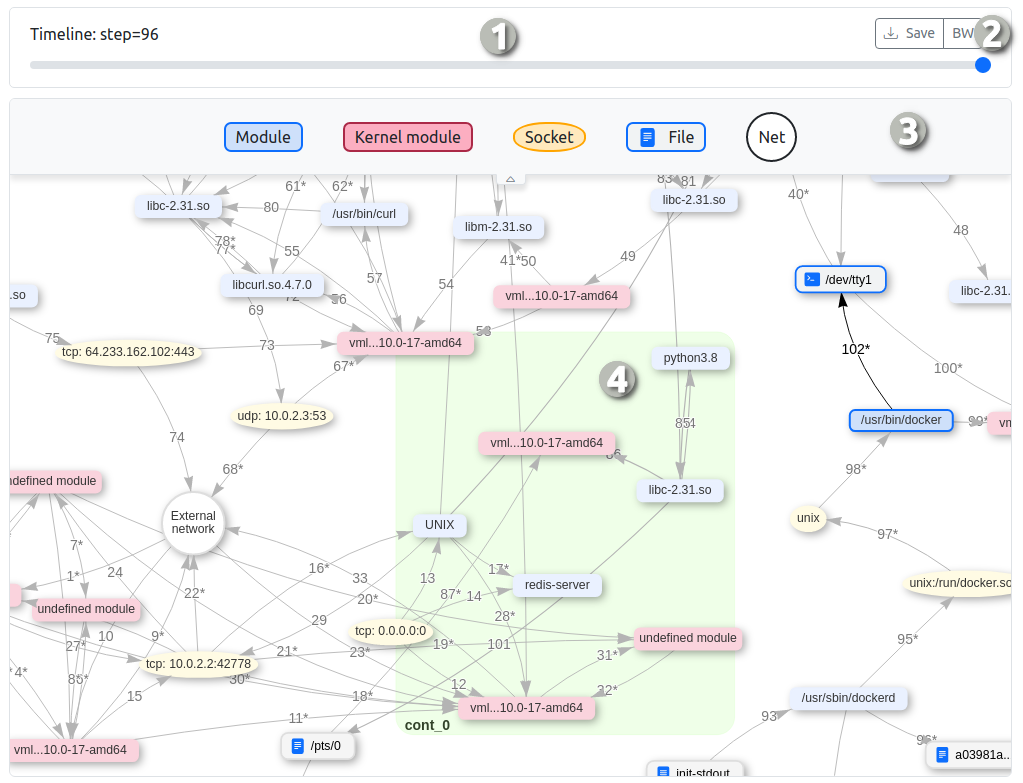
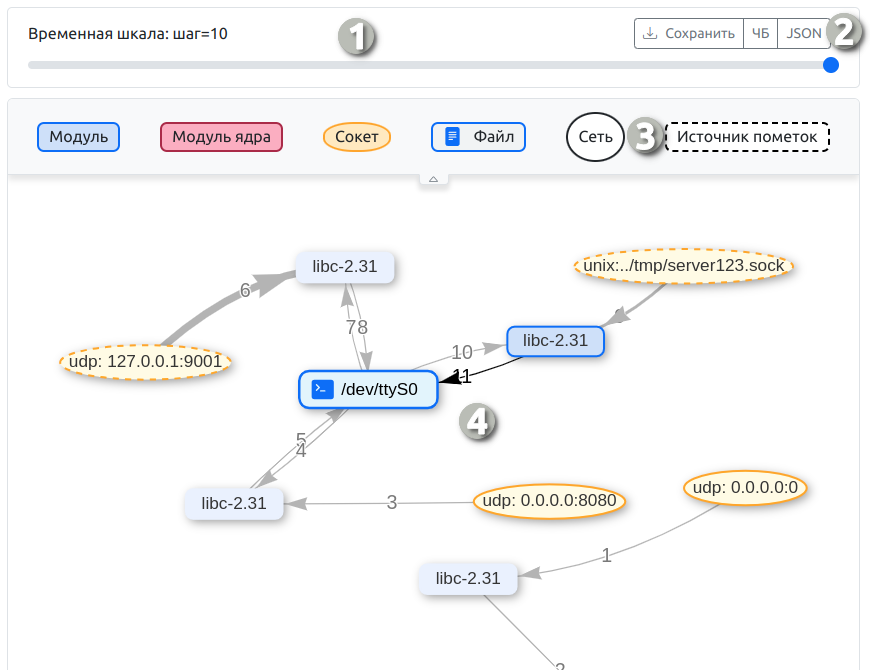
Update 6_snatch.md: updated process_&module_graph part

diff --git a/6_snatch.md b/6_snatch.md
@@ -114,27 +114,30 @@
 ### <a name="process_graph"></a>6.3.3. Граф процессов
 
 Граф процессов открывается автоматически после создания проекта, при наличии в проекте помеченных данных (в противном случае будет выведено информационное сообщение). Его также можно открыть через меню проекта.
-В меню графа процессов есть два пункта: *Process-graph* и *Process-graph content* (json представление графа). После выбора одного из этих пунктов открывается новая вкладка с соответствующим названием. Для *Process-graph content* содержимое вкладки будет представлено текстом, а для *Process-graph* откроется вкладка следующего вида:
+
+Для каждого нового проекта, построенного на основании одного и того же архива, первоначальное построение графа процессов и расположение узлов на нем будет одинаковым. При дальнейшем взаимодействии с графом, положение его узлов сохраняется. Таким образом при повторном открытии графа процессов узлы будут расположены так же, как и в прошлый раз, при этом не будет происходить перестроение графа с учетом физической модели.
+
+Отдельно отметим, что на текущем этапе разработки граф процессов может содержать некоторые неточности. При несоответствии данных между графом и другими аналитиками, стоит ориентироваться на последние.
+
+*Граф процессов* выглядит следующим образом:
 
 <img src=https://raw.githubusercontent.com/ispras/natch/main/images/snatch/snatch_process_graph.png><figcaption>_Граф процессов_</figcaption>
 
 В окне графа процессов представлены следующие элементы:
 
 1. Шкала выбора активного шага выполнения. Перемещение по данной шкале соответствующим образом изменяет отображаемый граф.
-2. Кнопки сохранения (экспорта в pdf) текущего состояния графа. По нажатию кнопки "Save" происходит создание цветного изображения графа, по нажатию на "BW" – черно-белого.
+2. Кнопки сохранения (экспорта в pdf) текущего состояния графа. По нажатию кнопки "Сохранить" происходит создание цветного изображения графа, по нажатию на "ЧБ" – черно-белого, "JSON" – сохраняет текстовое представление графа в json-формате.
 3. Выбор режима отображения графа. Граф процессов поддерживает 4 режима отображения:
-   * *Active* – отображаются элементы (узлы и стрелки), которые задействованы на текущем шаге;
-   * *Past* – отображаются элементы, которые задействованы на текущем шаге, а также те, которые произошли в прошлом (узлы и стрелки серого цвета);
-   * *Significant* – отображаются элементы, которые задействованы на текущем шаге, а также те узлы, которые были задействованы в прошлом и при этом еще будут задействованы в будущем, и прошедшие стрелки между ними (узлы и стрелки бледных цветов);
-   * *All* – отображаются элементы, которые задействованы на текущем шаге, а также те узлы (но не стрелки), которые вообще существуют на схеме (узлы бледных цветов).
-4. Легенда графа. Описывает набор отображаемых на графе узлов и их внешний вид. По нажатию на элемент легенда скрывается и может быть повторно вызвана нажатием на оставшийся "язычок".
+   * *Активные* – отображаются элементы (узлы и стрелки), которые задействованы на текущем шаге;
+   * *Прошлые* – отображаются элементы, которые задействованы на текущем шаге, а также те, которые произошли в прошлом (узлы и стрелки серого цвета);
+   * *Значимые* – отображаются элементы, которые задействованы на текущем шаге, а также те узлы, которые были задействованы в прошлом и при этом еще будут задействованы в будущем, и прошедшие стрелки между ними (узлы и стрелки бледных цветов);
+   * *Все* – отображаются элементы, которые задействованы на текущем шаге, а также те узлы (но не стрелки), которые вообще существуют на схеме (узлы бледных цветов).
+4. Легенда графа. Описывает набор отображаемых на графе узлов и их внешний вид. По нажатию на элемент легенда скрывается и может быть повторно вызвана нажатием на оставшийся "язычок". Элемент "источник пометок" описывает не форму, а вид рамки элемента (на данный момент если источником помеченных данных являлась "Сеть", то её вид рамки не изменится, требуется доработка).
 4. Граф процессов. Интерактивный граф, отображающий взаимодействие процессов, работавших с помеченными данными. Расположение узлов на графе можно изменять удобным для пользователя образом. При наличии информации о контейнерах, они будут отображены на графе в виде зеленых блоков, содержащих соответствующие им процессы. При нажатии на узел происходит отображение бокового информационного блока:
 
 <img src=https://raw.githubusercontent.com/ispras/natch/main/images/snatch/snatch_process_infoblock.png><figcaption>_Информационный блок_</figcaption>
 
 В информационном блоке содержатся: название выбранного элемента, его свойства, кнопка открытия соответствующего отфильтрованного графа модулей.
-
-Отдельно обращаем внимание, что положение узлов при взаимодействии с графом сохраняется. При повторном открытии графа процессов узлы будут расположены так же, как и в прошлый раз, при этом не будет происходить перестроение графа с учетом физической модели.
 
 При нажатии правой кнопкой мыши на узел в графе процессов появляется контекстное меню, из которого можно осуществить взаимодействие со *Svacer*. При первой попытке взаимодействия пользователю будет предложено установить адрес сервера, имя и пароль пользователя (если ранее это не было установлено через раздел *Settings*). Затем пользователь увидит окно следующего вида:
 
@@ -144,19 +147,19 @@
 
 ### 6.3.4. <a name="module_graph"></a>Граф модулей
 
-В меню графа процессов есть два пункта: *Module-graph* и *Module-graph content* (json представление графа). После выбора одного из этих пунктов открывается новая вкладка с соответствующим названием. Для *Module-graph content* содержимое вкладки будет представлено текстом, а для *Module-graph* откроется вкладка следующего вида:
+Открытие графа модулей происходит по нажатию на соответствующий пункт меню в разделе *Основные графы*. При нажатии открывается новая вкладка следующего вида:
 
 <img src=https://raw.githubusercontent.com/ispras/natch/main/images/snatch/snatch_module_graph.png><figcaption>_Граф модулей_</figcaption>
 
 Функционал этого окна почти полностью повторяет функционал графа процессов (см 6.3.2):
 
 1. Шкала выбора активного шага выполнения. Перемещение по данной шкале соответствующим образом изменяет отображаемый граф.
-2. Кнопки экспорта графа в цветном и черно-белом варианте.
+2. Кнопки экспорта графа в цветном, черно-белом варианте и в json-формате.
 3. Сворачиваемая легенда графа. Описывает набор отображаемых на графе узлов и их внешний вид.
-3. Граф модулей. Интерактивный граф, отображающий взаимодействие модулей, работавших с помеченными данными. Расположение узлов на графе можно изменять удобным для пользователя образом. Стрелки, описывающие взаимодействие, сопровождаются номером, соответствующим очередности взаимодействия. Номер с символом "*" означает, что между узлами было более одного взаимодействия (очередность номера описывает только первый случай этого взаимодействия).
+4. Граф модулей. Интерактивный граф, отображающий взаимодействие модулей, работавших с помеченными данными. Расположение узлов на графе можно изменять удобным для пользователя образом. Стрелки, описывающие взаимодействие, сопровождаются номером, соответствующим очередности взаимодействия. Номер с символом "*" означает, что между узлами было более одного взаимодействия (очередность номера описывает только первый случай этого взаимодействия).
 
 Так же, как и в графе процессов, нажатие на узел в графе модулей вызывает информационный блок, содержащее данные о выбранном элементе.
-При взаимодействии с графом его положение сохраняется и воспроизводится при последующем открытии.
+Первоначальное построение для одного и того же архива будет всегда одинаковым, а при взаимодействии с графом его положение сохраняется и воспроизводится при последующем открытии.
 
 ### 6.3.5. Графы вызовов
 #### 6.3.5.1. Классический граф вызовов
